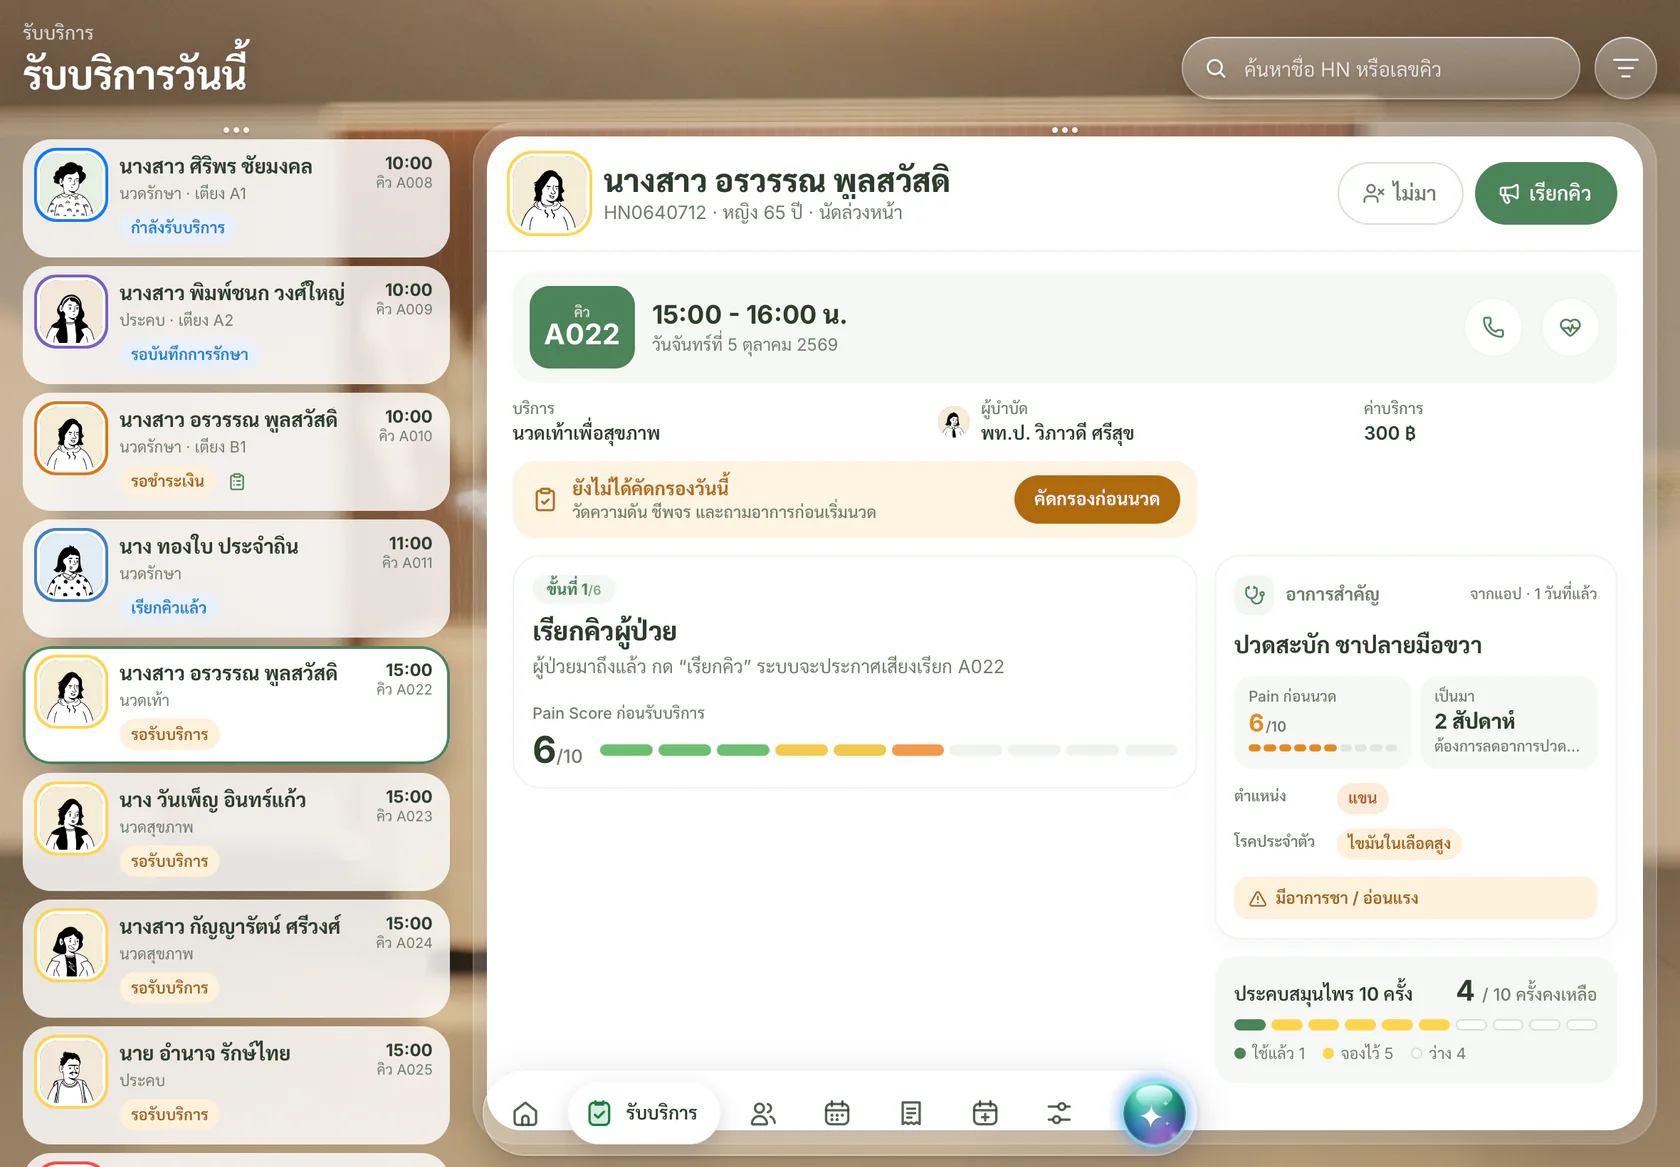
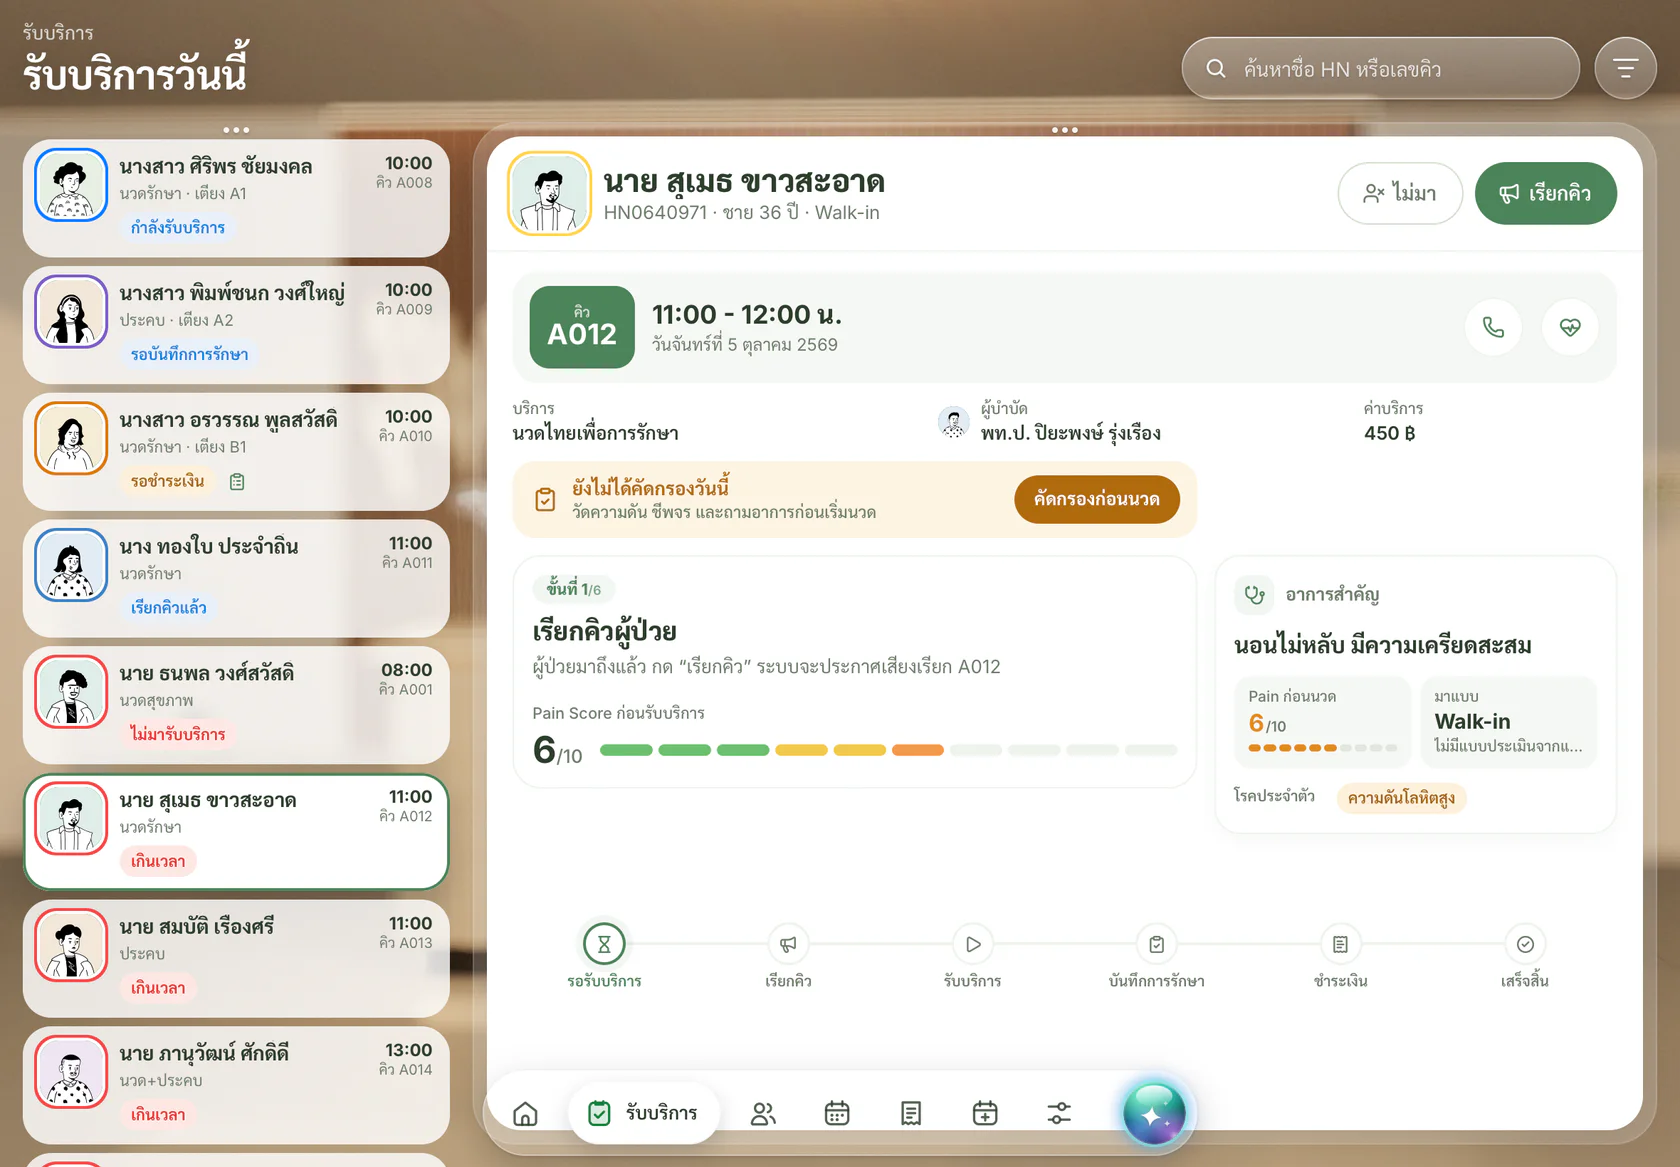
Before-massage screening as a full page (/patients/:id/screen) reusing the registration screening step: 3D body, pain, health info, vitals, questionnaire; keeps standing answers, re-measures vitals; manual + in-app guide updated

diff --git a/src/pages/patients/Patients.tsx b/src/pages/patients/Patients.tsx
@@ -356,7 +356,7 @@ export default function Patients() {
   );
 }
 
-function PatientForm({ onClose, onCreated, edit }: { onClose: () => void; onCreated: (id: string) => void; /** edit this patient instead of registering a new one */ edit?: Patient | null }) {
+function PatientForm({ onClose, onCreated, edit, screenOnly }: { onClose: () => void; onCreated: (id: string) => void; /** edit this patient instead of registering a new one */ edit?: Patient | null; /** before-massage re-screening: only the screening step */ screenOnly?: boolean }) {
   const store = useStore();
   const toast = useToast();
   const empty = { title: "นาย", first: "", last: "", gender: "ชาย" as Patient["gender"], dob: "", phone: "", email: "", complaint: "", conditions: "", photo: "", cid: "", allergies: "", ecName: "", ecPhone: "", ecRel: "", address: "" };
@@ -406,9 +406,16 @@ function PatientForm({ onClose, onCreated, edit }: { onClose: () => void; onCrea
   const cardIn = (location.state as { card?: IdCardData } | null)?.card;
   useEffect(() => {
     setF(edit ? fromPatient(edit) : cardIn ? { ...empty, title: cardIn.title, first: cardIn.first, last: cardIn.last, gender: cardIn.gender, dob: cardIn.dob, cid: formatCid(cardIn.cid), address: cardIn.address } : empty);
-    setStep(0);
+    setStep(screenOnly ? 1 : 0);
     setFromCard(!edit && !!cardIn);
     const sc = edit?.screening;
+    // re-screening today: keep body areas and standing answers, measure vitals / fever / skin / pain again
+    if (screenOnly) {
+      setScr({ ...emptyScr, pregnant: !!sc?.pregnant, recentSurgery: !!sc?.recentSurgery, numbness: !!sc?.numbness, bloodThinner: !!sc?.bloodThinner, pressure: sc?.pressure ?? "ปานกลาง", painAreas: areasOf(sc?.painAreas ?? []), avoidAreas: areasOf((sc?.avoid ?? "").split(/[,·]\s*/)) });
+      setHold(null);
+      setSkipScr(false);
+      return;
+    }
     setScr(sc ? { bpSys: sc.bpSys ? String(sc.bpSys) : "", bpDia: sc.bpDia ? String(sc.bpDia) : "", pulse: sc.pulse ? String(sc.pulse) : "", fever: sc.fever, pregnant: !!sc.pregnant, recentSurgery: sc.recentSurgery, numbness: sc.numbness, bloodThinner: sc.bloodThinner, skinProblem: sc.skinProblem, pressure: sc.pressure, painAreas: areasOf(sc.painAreas ?? []), avoidAreas: areasOf(sc.avoid.split(/[,·]\s*/)), pain: sc.pain ?? null } : emptyScr);
     setHold(null);
     setSkipScr(!!edit && !sc);
@@ -464,7 +471,7 @@ function PatientForm({ onClose, onCreated, edit }: { onClose: () => void; onCrea
           ...(screening?.pain != null ? { painHistory: [...edit.painHistory.filter((x) => x.date !== todayISO()), { date: todayISO(), score: screening.pain }] } : {}),
         },
       });
-      toast({ message: "บันทึกข้อมูลผู้รับบริการแล้ว" });
+      toast({ message: screenOnly ? (flags.some((x) => x.level === "stop") ? "บันทึกผลคัดกรองแล้ว · พบข้อห้าม ต้องให้แพทย์ประเมินก่อนนวด" : "บันทึกผลคัดกรองแล้ว") : "บันทึกข้อมูลผู้รับบริการแล้ว", tone: screenOnly && flags.some((x) => x.level === "stop") ? "danger" : undefined });
       onClose();
       return;
     }
@@ -520,10 +527,22 @@ function PatientForm({ onClose, onCreated, edit }: { onClose: () => void; onCrea
       eyebrow={edit ? `ผู้มารับบริการ · ${edit.hn}` : "ผู้มารับบริการ"}
       title={edit ? "แก้ไขข้อมูลผู้รับบริการ" : "เพิ่มผู้รับบริการใหม่"}
       bell={false}
-      lead={<BackLead eyebrow={edit ? `ผู้มารับบริการ · ${edit.hn}` : "ผู้มารับบริการ"} title={edit ? "แก้ไขข้อมูลผู้รับบริการ" : "เพิ่มผู้รับบริการใหม่"} onBack={onClose} />}
+      lead={
+        <BackLead
+          eyebrow={screenOnly && edit ? `รับบริการ · ${edit.name}` : edit ? `ผู้มารับบริการ · ${edit.hn}` : "ผู้มารับบริการ"}
+          title={screenOnly ? "คัดกรองก่อนนวด" : edit ? "แก้ไขข้อมูลผู้รับบริการ" : "เพิ่มผู้รับบริการใหม่"}
+          onBack={onClose}
+        />
+      }
     >
       <div className="apg ap">
         <div className="apg__bar">
+          {screenOnly ? (
+            <div className={flags.some((x) => x.level === "stop") ? "apg__verdict is-stop" : flags.length ? "apg__verdict is-warn" : "apg__verdict"}>
+              {flags.length ? <ShieldAlert size={16} /> : <ShieldCheck size={16} />}
+              {flags.some((x) => x.level === "stop") ? "พบข้อห้าม · ต้องให้แพทย์ประเมินก่อนนวด" : flags.length ? `ข้อควรระวัง ${flags.length} ข้อ` : "ยังไม่พบข้อห้าม"}
+            </div>
+          ) : (
           <ol className="ap-steps">
             {STEPS.map((t, i) => (
               <li key={t} className={i < step ? "is-done" : i === step ? "is-now" : undefined}>
@@ -534,7 +553,19 @@ function PatientForm({ onClose, onCreated, edit }: { onClose: () => void; onCrea
               </li>
             ))}
           </ol>
+          )}
           <div className="apg__actions">
+            {screenOnly ? (
+              <>
+                <Button variant="outline" size="md" onClick={onClose}>
+                  ยกเลิก
+                </Button>
+                <Button size="md" disabled={!valid} onClick={submit}>
+                  บันทึกผลคัดกรอง
+                </Button>
+              </>
+            ) : (
+              <>
                 <Button variant="outline" size="md" onClick={() => (step === 0 ? onClose() : setStep(step - 1))}>
                   {step === 0 ? "ยกเลิก" : "ย้อนกลับ"}
                 </Button>
@@ -566,6 +597,8 @@ function PatientForm({ onClose, onCreated, edit }: { onClose: () => void; onCrea
                     บันทึก
                   </Button>
                 )}
+              </>
+            )}
           </div>
         </div>
         <div className={step === 1 ? "apg__body is-split" : "apg__body scroll-y"}>
@@ -1119,7 +1152,7 @@ function PatientForm({ onClose, onCreated, edit }: { onClose: () => void; onCrea
 }
 
 /** /patients/new and /patients/:id/edit — registration as a full page */
-export function PatientFormPage() {
+export function PatientFormPage({ screen }: { screen?: boolean }) {
   const { id } = useParams();
   const store = useStore();
   const navigate = useNavigate();
@@ -1127,7 +1160,8 @@ export function PatientFormPage() {
   return (
     <PatientForm
       edit={edit}
-      onClose={() => navigate(edit ? `/patients?id=${edit.id}` : "/patients")}
+      screenOnly={screen}
+      onClose={() => (screen ? navigate(-1) : navigate(edit ? `/patients?id=${edit.id}` : "/patients"))}
       onCreated={(nid) => navigate(`/patients?id=${nid}`)}
     />
   );

diff --git a/src/features/UserGuide.tsx b/src/features/UserGuide.tsx
@@ -30,7 +30,7 @@ const CHAPTERS: { id: string; title: string; color: string; Icon: Icon; intro: s
     Icon: VisitIcon,
     intro: "ทำงานหน้างานทีละขั้น ตั้งแต่เรียกคิวจนรับชำระเงิน",
     topics: [
-      { q: "ขั้นตอนการรับบริการ", steps: ["เลือกผู้ป่วยจากรายการฝั่งซ้าย", "กด “เรียกคิว” ระบบจะประกาศเสียงเรียก", "กด “คัดกรองก่อนนวด” วัดความดัน ชีพจร ถามอาการ", "เลือกเตียงแล้ว “เริ่มรับบริการ” ระบบจับเวลาให้", "กด “จบการรักษา” → บันทึกการรักษา (วินิจฉัย หัตถการ Pain หลังนวด)", "เลือกวิธีชำระ เงินสด / พร้อมเพย์ / เครดิตคอร์ส → ออกใบเสร็จ"], tip: "ถ้าแถบคัดกรองเป็นสีแดง แปลว่าพบข้อห้าม ต้องให้แพทย์แผนไทยประเมินก่อนนวด" },
+      { q: "ขั้นตอนการรับบริการ", steps: ["เลือกผู้ป่วยจากรายการฝั่งซ้าย", "กด “เรียกคิว” ระบบจะประกาศเสียงเรียก", "กด “คัดกรองก่อนนวด” เปิดหน้าคัดกรอง (หุ่น 3D · ระดับปวด · ความดัน ชีพจร · คำถามก่อนนวด) แล้วบันทึก", "เลือกเตียงแล้ว “เริ่มรับบริการ” ระบบจับเวลาให้", "กด “จบการรักษา” → บันทึกการรักษา (วินิจฉัย หัตถการ Pain หลังนวด)", "เลือกวิธีชำระ เงินสด / พร้อมเพย์ / เครดิตคอร์ส → ออกใบเสร็จ"], tip: "ถ้าแถบคัดกรองเป็นสีแดง แปลว่าพบข้อห้าม ต้องให้แพทย์แผนไทยประเมินก่อนนวด" },
       { q: "ดูข้อมูลสุขภาพระหว่างรับบริการ", steps: ["กดไอคอนหัวใจข้างปุ่มโทร", "กล่องข้อมูลสุขภาพเปิดทางขวา มีหุ่น 3D จุดที่ปวด และประวัติ Pain Score"] },
       { q: "ผู้ป่วยไม่มา / ยกเลิกนัด", steps: ["กด “ไม่มา” ในขั้นรอเรียกคิว", "ถ้าผู้ป่วยมาถึงทีหลัง กด “ย้อนกลับ” ได้"] },
     ],

diff --git a/src/features/AppointmentDrawer.tsx b/src/features/AppointmentDrawer.tsx
@@ -1,3 +1,4 @@
+import { useNavigate } from "react-router-dom";
 import { useEffect, useMemo, useState } from "react";
 import { AnimatePresence, motion } from "framer-motion";
 import { ArrowRight, Ban, HeartPulse, Stethoscope, TriangleAlert, X, BellRing, Check, CircleCheck, ClipboardCheck, Hourglass, Megaphone, Phone, Play, ReceiptText, Send, Ticket, Undo2, UserX } from "lucide-react";
@@ -17,7 +18,6 @@ import { intakeAlerts, intakeOfVisit } from "../data/intake";
 import { DEFAULT_CALL_VOICE, announce, callText } from "./tts";
 import "./visit.css";
 import { VisitScreening } from "./ScreeningAlert";
-import { ScreeningDialog } from "./ScreeningDialog";
 
 export { stageOf, type Stage } from "../data/domain";
 
@@ -57,6 +57,7 @@ export function AppointmentDrawer({
   historyOpen?: boolean;
 }) {
   const store = useStore();
+  const navigate = useNavigate();
   const toast = useToast();
   const shownId = useLatest(id);
   const appt = store.appointments.find((a) => a.id === shownId);
@@ -82,7 +83,6 @@ export function AppointmentDrawer({
   }, [id]);
 
   const stage = appt ? stageOf(appt) : "waiting";
-  const [screenOpen, setScreenOpen] = useState(false);
   useEffect(() => {
     if (stage !== "treating") return;
     const t = window.setInterval(() => setNow(Date.now()), 1000);
@@ -287,8 +287,7 @@ export function AppointmentDrawer({
             </span>
           </div>
 
-          {(stage === "waiting" || stage === "called" || stage === "treating") && <VisitScreening p={p} onScreen={() => setScreenOpen(true)} />}
-          <ScreeningDialog p={p} open={screenOpen} onClose={() => setScreenOpen(false)} />
+          {(stage === "waiting" || stage === "called" || stage === "treating") && <VisitScreening p={p} onScreen={() => navigate(`/patients/${p.id}/screen`)} />}
 
           {stepIdx >= 0 ? (
             <ol className="vs__steps">

diff --git a/src/layout/AppShell.tsx b/src/layout/AppShell.tsx
@@ -116,6 +116,7 @@ export function AppShell() {
             <Route path="/patients" element={<Page><Patients /></Page>} />
             <Route path="/patients/new" element={<Page><PatientFormPage /></Page>} />
             <Route path="/patients/:id/edit" element={<Page><PatientFormPage /></Page>} />
+            <Route path="/patients/:id/screen" element={<Page><PatientFormPage screen /></Page>} />
             <Route path="/settings" element={<Page><Settings /></Page>} />
             <Route path="/visits" element={<Page><Visits /></Page>} />
             <Route path="/billing" element={<Page><Billing /></Page>} />
@@ -127,7 +128,7 @@ export function AppShell() {
       </AnimatePresence>
 
       {/* sub-pages (register / edit / booking requests) are full-screen tasks: no dock, they have their own back button */}
-      {!/^\/(patients\/(new|[^/]+\/edit)|requests)$/.test(location.pathname) && <Dock onAssistant={() => setSpot(true)} />}
+      {!/^\/(patients\/(new|[^/]+\/(edit|screen))|requests)$/.test(location.pathname) && <Dock onAssistant={() => setSpot(true)} />}
       <Suspense fallback={null}>{spotEver && <AISpotlight open={spot} onClose={() => setSpot(false)} />}</Suspense>
       <Tour />
         </>

diff --git a/src/pages/patients/patients.css b/src/pages/patients/patients.css
@@ -2638,3 +2638,18 @@
   font: 700 12px/1 var(--font-sans);
   color: #d23a2a;
 }
+.apg__verdict {
+  --vc: #2f8a52;
+  --vt: #eaf7ef;
+  display: inline-flex;
+  align-items: center;
+  gap: 8px;
+  height: 38px;
+  padding: 0 14px;
+  border-radius: var(--radius-pill);
+  background: var(--vt);
+  font: 700 13px/1 var(--font-sans);
+  color: var(--vc);
+}
+.apg__verdict.is-warn { --vc: #b06a0c; --vt: #fdf4e3; }
+.apg__verdict.is-stop { --vc: #d23a2a; --vt: #fdecea; }
